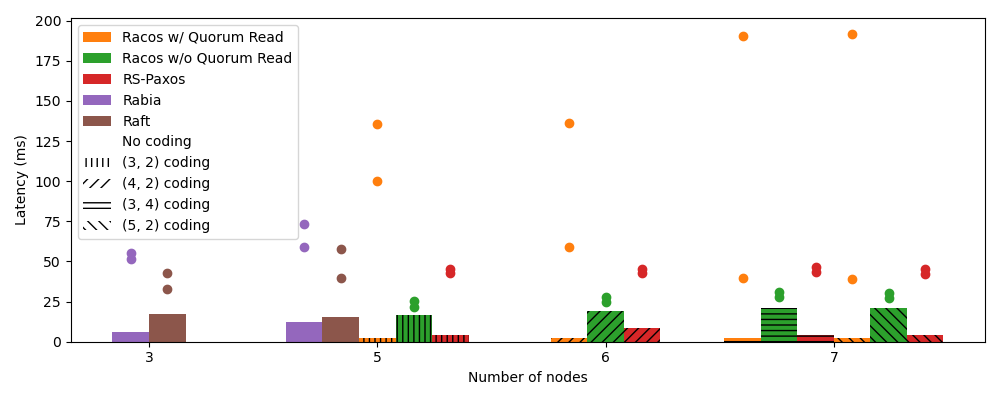
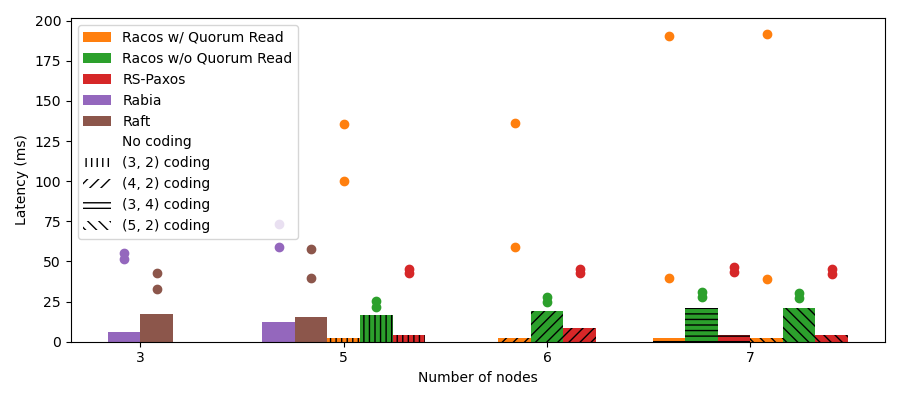
some changes to plotting

diff --git a/plotting.py b/plotting.py
@@ -89,7 +89,7 @@ def scalability_13_50_write_50_read() -> None:
   pyplot.savefig('plots/scalability-1.3-50_write_50_read/nodes-throughput-50_write_50_read.png')
 
   # plot 5.6.4
-  pyplot.figure(figsize = (10, 4))
+  pyplot.figure(figsize = DIMENSIONS)
   pyplot.bar(-.08, plot_56_getter(plot_data, 'rabia', 4, 'med_latency'), .16, color = 'C4')
   pyplot.bar(.08, plot_56_getter(plot_data, 'raft', 4, 'med_latency'), .16, color = 'C5')
   pyplot.bar(.68, plot_56_getter(plot_data, 'rabia', 6, 'med_latency'), .16, color = 'C4')
@@ -233,6 +233,88 @@ def scalability_6667_5_write_95_read() -> None:
   pyplot.tight_layout()
   pyplot.savefig('plots/scalability-666.7-5_write_95_read/nodes-latency-5_write_95_read.png')
 
+def scalability_6667_half_write_half_read() -> None:
+  plot_data : pandas.DataFrame = pandas.read_csv('data/scalability-666.7-half_write_half_read.csv')
+
+  # plot 5.6.5
+  pyplot.figure(figsize = DIMENSIONS)
+  pyplot.bar(-.095, plot_56_getter(plot_data, 'rabia', 8, 'ops'), .19, color = 'C4')
+  pyplot.bar(.095, plot_56_getter(plot_data, 'raft', 8, 'ops'), .19, color = 'C5')
+  pyplot.bar(.62, plot_56_getter(plot_data, 'rabia', 10, 'ops'), .19, color = 'C4')
+  pyplot.bar(.81, plot_56_getter(plot_data, 'raft', 10, 'ops'), .19, color = 'C5')
+  pyplot.bar(1, plot_56_getter(plot_data, 'racos36', 10, 'ops'), .19, color = 'C1', hatch = '|||')
+  pyplot.bar(1.19, plot_56_getter(plot_data, 'tracos36', 10, 'ops'), .19, color = 'C2', hatch = '|||')
+  pyplot.bar(1.38, plot_56_getter(plot_data, 'paxos36', 10, 'ops'), .19, color = 'C3', hatch = '|||')
+  pyplot.bar(1.62, plot_56_getter(plot_data, 'rabia', 12, 'ops'), .19, color = 'C4')
+  pyplot.bar(1.81, plot_56_getter(plot_data, 'raft', 12, 'ops'), .19, color = 'C5')
+  pyplot.bar(2, plot_56_getter(plot_data, 'racos38', 12, 'ops'), .19, color = 'C1', hatch = '///')
+  pyplot.bar(2.19, plot_56_getter(plot_data, 'tracos38', 12, 'ops'), .19, color = 'C2', hatch = '///')
+  pyplot.bar(2.38, plot_56_getter(plot_data, 'paxos38', 12, 'ops'), .19, color = 'C3', hatch = '///')
+  pyplot.bar(2.81, plot_56_getter(plot_data, 'racos310', 14, 'ops'), .19, color = 'C1', hatch = '---')
+  pyplot.bar(3, plot_56_getter(plot_data, 'tracos310', 14, 'ops'), .19, color = 'C2', hatch = '---')
+  pyplot.bar(3.19, plot_56_getter(plot_data, 'paxos310', 14, 'ops'), .19, color = 'C3', hatch = '---')
+  pyplot.xticks(range(4), ['7', '9', '11', '13'])
+  pyplot.xlabel('Number of nodes')
+  pyplot.ylabel('Throughput (Mbps)')
+  pyplot.legend(handles = [pyplot.Rectangle((0,0), 1, 1, facecolor = 'C1', label='Racos w/ Quorum Read'), pyplot.Rectangle((0,0), 1, 1, facecolor = 'C2', label='Racos w/o Quorum Read'), pyplot.Rectangle((0,0), 1, 1, facecolor = 'C3', label = 'RS-Paxos'), pyplot.Rectangle((0,0), 1, 1, facecolor = 'C4', label = 'Rabia'), pyplot.Rectangle((0,0), 1, 1, facecolor = 'C5', label = 'Raft'), pyplot.Rectangle((0,0), 1, 1, facecolor = 'none', label = 'No coding'), pyplot.Rectangle((0,0), 1, 1, facecolor = 'none', hatch = '|||', label = '(3, 6) coding'), pyplot.Rectangle((0,0), 1, 1, facecolor = 'none', hatch = '///', label = '(3, 8) coding'), pyplot.Rectangle((0,0), 1, 1, facecolor = 'none', hatch = '---', label = '(3, 10) coding'),], loc = 'upper left')
+  pyplot.tight_layout()
+  pyplot.savefig('plots/scalability-666.7-half_write_half_read/nodes-throughput-half_write_half_read-666.7.png')
+
+  # plot 5.6.6
+  pyplot.figure(figsize = (10, 4))
+  pyplot.bar(-.095, plot_56_getter(plot_data, 'rabia', 8, 'med_latency'), .19, color = 'C4')
+  pyplot.plot(-.095, plot_56_getter(plot_data, 'rabia', 8, 'p95_latency'), color = 'C4', marker = 'o', linestyle = '')
+  pyplot.plot(-.095, plot_56_getter(plot_data, 'rabia', 8, 'p99_latency'), color = 'C4', marker = 'o', linestyle = '')
+  pyplot.bar(.095, plot_56_getter(plot_data, 'raft', 8, 'med_latency'), .19, color = 'C5')
+  pyplot.plot(.095, plot_56_getter(plot_data, 'raft', 8, 'p95_latency'), color = 'C5', marker = 'o', linestyle = '')
+  pyplot.plot(.095, plot_56_getter(plot_data, 'raft', 8, 'p99_latency'), color = 'C5', marker = 'o', linestyle = '')
+  pyplot.bar(.62, plot_56_getter(plot_data, 'rabia', 10, 'med_latency'), .19, color = 'C4')
+  pyplot.plot(.62, plot_56_getter(plot_data, 'rabia', 10, 'p95_latency'), color = 'C4', marker = 'o', linestyle = '')
+  pyplot.plot(.62, plot_56_getter(plot_data, 'rabia', 10, 'p99_latency'), color = 'C4', marker = 'o', linestyle = '')
+  pyplot.bar(.81, plot_56_getter(plot_data, 'raft', 10, 'med_latency'), .19, color = 'C5')
+  pyplot.plot(.81, plot_56_getter(plot_data, 'raft', 10, 'p95_latency'), color = 'C5', marker = 'o', linestyle = '')
+  pyplot.plot(.81, plot_56_getter(plot_data, 'raft', 10, 'p99_latency'), color = 'C5', marker = 'o', linestyle = '')
+  pyplot.bar(1, plot_56_getter(plot_data, 'racos36', 10, 'med_latency'), .19, color = 'C1', hatch = '|||')
+  pyplot.plot(1, plot_56_getter(plot_data, 'racos36', 10, 'p95_latency'), color = 'C1', marker = 'o', linestyle = '')
+  pyplot.plot(1, plot_56_getter(plot_data, 'racos36', 10, 'p99_latency'), color = 'C1', marker = 'o', linestyle = '')
+  pyplot.bar(1.19, plot_56_getter(plot_data, 'tracos36', 10, 'med_latency'), .19, color = 'C2', hatch = '|||')
+  pyplot.plot(1.19, plot_56_getter(plot_data, 'tracos36', 10, 'p95_latency'), color = 'C2', marker = 'o', linestyle = '')
+  pyplot.plot(1.19, plot_56_getter(plot_data, 'tracos36', 10, 'p99_latency'), color = 'C2', marker = 'o', linestyle = '')
+  pyplot.bar(1.38, plot_56_getter(plot_data, 'paxos36', 10, 'med_latency'), .19, color = 'C3', hatch = '|||')
+  pyplot.plot(1.38, plot_56_getter(plot_data, 'paxos36', 10, 'p95_latency'), color = 'C3', marker = 'o', linestyle = '')
+  pyplot.plot(1.38, plot_56_getter(plot_data, 'paxos36', 10, 'p99_latency'), color = 'C3', marker = 'o', linestyle = '')
+  pyplot.bar(1.62, plot_56_getter(plot_data, 'rabia', 12, 'med_latency'), .19, color = 'C4')
+  pyplot.plot(1.62, plot_56_getter(plot_data, 'rabia', 12, 'p95_latency'), color = 'C4', marker = 'o', linestyle = '')
+  pyplot.plot(1.62, plot_56_getter(plot_data, 'rabia', 12, 'p99_latency'), color = 'C4', marker = 'o', linestyle = '')
+  pyplot.bar(1.81, plot_56_getter(plot_data, 'raft', 12, 'med_latency'), .19, color = 'C5')
+  pyplot.plot(1.81, plot_56_getter(plot_data, 'raft', 12, 'p95_latency'), color = 'C5', marker = 'o', linestyle = '')
+  pyplot.plot(1.81, plot_56_getter(plot_data, 'raft', 12, 'p99_latency'), color = 'C5', marker = 'o', linestyle = '')
+  pyplot.bar(2, plot_56_getter(plot_data, 'racos38', 12, 'med_latency'), .19, color = 'C1', hatch = '///')
+  pyplot.plot(2, plot_56_getter(plot_data, 'racos38', 12, 'p95_latency'), color = 'C1', marker = 'o', linestyle = '')
+  pyplot.plot(2, plot_56_getter(plot_data, 'racos38', 12, 'p99_latency'), color = 'C1', marker = 'o', linestyle = '')
+  pyplot.bar(2.19, plot_56_getter(plot_data, 'tracos38', 12, 'med_latency'), .19, color = 'C2', hatch = '///')
+  pyplot.plot(2.19, plot_56_getter(plot_data, 'racos38', 12, 'p95_latency'), color = 'C2', marker = 'o', linestyle = '')
+  pyplot.plot(2.19, plot_56_getter(plot_data, 'racos38', 12, 'p99_latency'), color = 'C2', marker = 'o', linestyle = '')
+  pyplot.bar(2.38, plot_56_getter(plot_data, 'paxos38', 12, 'med_latency'), .19, color = 'C3', hatch = '///')
+  pyplot.plot(2.38, plot_56_getter(plot_data, 'paxos38', 12, 'p95_latency'), color = 'C3', marker = 'o', linestyle = '')
+  pyplot.plot(2.38, plot_56_getter(plot_data, 'paxos38', 12, 'p99_latency'), color = 'C3', marker = 'o', linestyle = '')
+  pyplot.bar(2.81, plot_56_getter(plot_data, 'racos310', 14, 'med_latency'), .19, color = 'C1', hatch = '---')
+  pyplot.plot(2.81, plot_56_getter(plot_data, 'racos310', 14, 'p95_latency'), color = 'C1', marker = 'o', linestyle = '')
+  pyplot.plot(2.81, plot_56_getter(plot_data, 'racos310', 14, 'p99_latency'), color = 'C1', marker = 'o', linestyle = '')
+  pyplot.bar(3, plot_56_getter(plot_data, 'tracos310', 14, 'med_latency'), .19, color = 'C2', hatch = '---')
+  pyplot.plot(3, plot_56_getter(plot_data, 'tracos310', 14, 'p95_latency'), color = 'C2', marker = 'o', linestyle = '')
+  pyplot.plot(3, plot_56_getter(plot_data, 'tracos310', 14, 'p99_latency'), color = 'C2', marker = 'o', linestyle = '')
+  pyplot.bar(3.19, plot_56_getter(plot_data, 'paxos310', 14, 'med_latency'), .19, color = 'C3', hatch = '---')
+  pyplot.plot(3.19, plot_56_getter(plot_data, 'paxos310', 14, 'p95_latency'), color = 'C3', marker = 'o', linestyle = '')
+  pyplot.plot(3.19, plot_56_getter(plot_data, 'paxos310', 14, 'p99_latency'), color = 'C3', marker = 'o', linestyle = '')
+  pyplot.ylim(top = 4000)
+  pyplot.xticks(range(4), ['7', '9', '11', '13'])
+  pyplot.xlabel('Number of nodes')
+  pyplot.ylabel('Latency (ms)')
+  pyplot.legend(handles = [pyplot.Rectangle((0,0), 1, 1, facecolor = 'C1', label='Racos w/ Quorum Read'), pyplot.Rectangle((0,0), 1, 1, facecolor = 'C2', label='Racos w/o Quorum Read'), pyplot.Rectangle((0,0), 1, 1, facecolor = 'C3', label = 'RS-Paxos'), pyplot.Rectangle((0,0), 1, 1, facecolor = 'C4', label = 'Rabia'), pyplot.Rectangle((0,0), 1, 1, facecolor = 'C5', label = 'Raft'), pyplot.Rectangle((0,0), 1, 1, facecolor = 'none', label = 'No coding'), pyplot.Rectangle((0,0), 1, 1, facecolor = 'none', hatch = '|||', label = '(3, 6) coding'), pyplot.Rectangle((0,0), 1, 1, facecolor = 'none', hatch = '///', label = '(3, 8) coding'), pyplot.Rectangle((0,0), 1, 1, facecolor = 'none', hatch = '---', label = '(3, 10) coding'),], loc = 'upper left', ncols = 5)
+  pyplot.tight_layout()
+  pyplot.savefig('plots/scalability-666.7-half_write_half_read/nodes-latency-half_write_half_read-666.7.png')
+
 def threads_discrete_half_write_half_read() -> None:
   '''creates all configured plots from the data in `data/threads-discrete-half_write_half_read.csv`'''
   plot_55('threads-discrete-half_write_half_read', 'throughput-med_latency-half_write_half_read', 'throughput-p99_latency-half_write_half_read', 'right')
@@ -250,3 +332,4 @@ if __name__ == '__main__':
   threads_discrete_5_write_95_read()
   scalability_6667_5_write_95_read()
   scalability_13_50_write_50_read()
+  scalability_6667_half_write_half_read()
